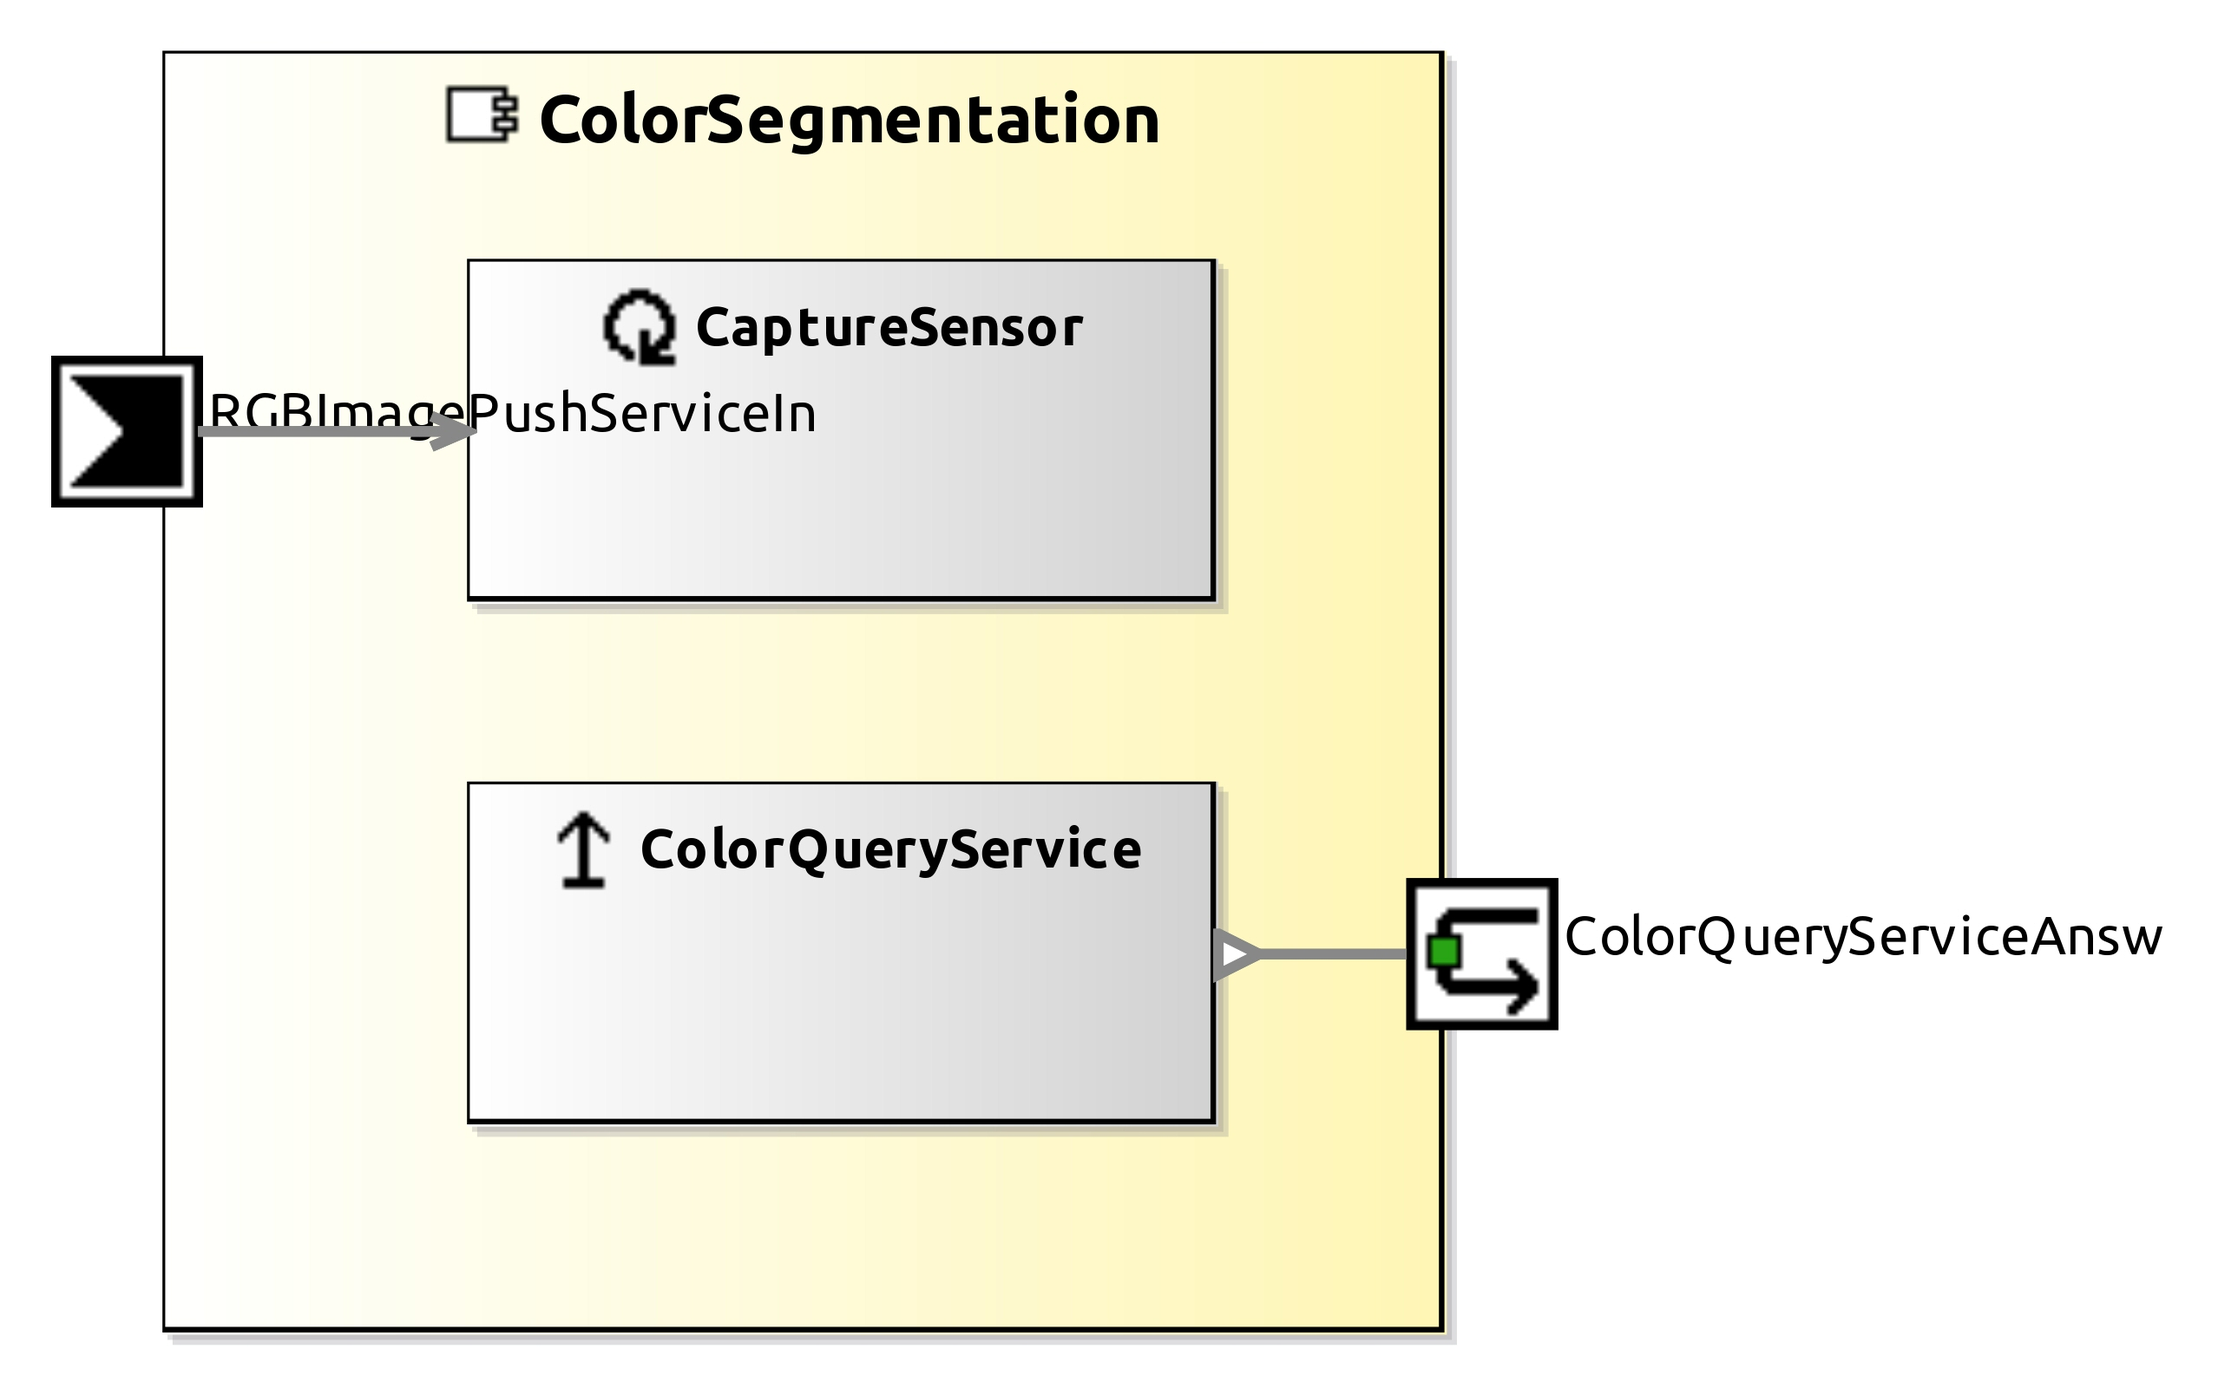
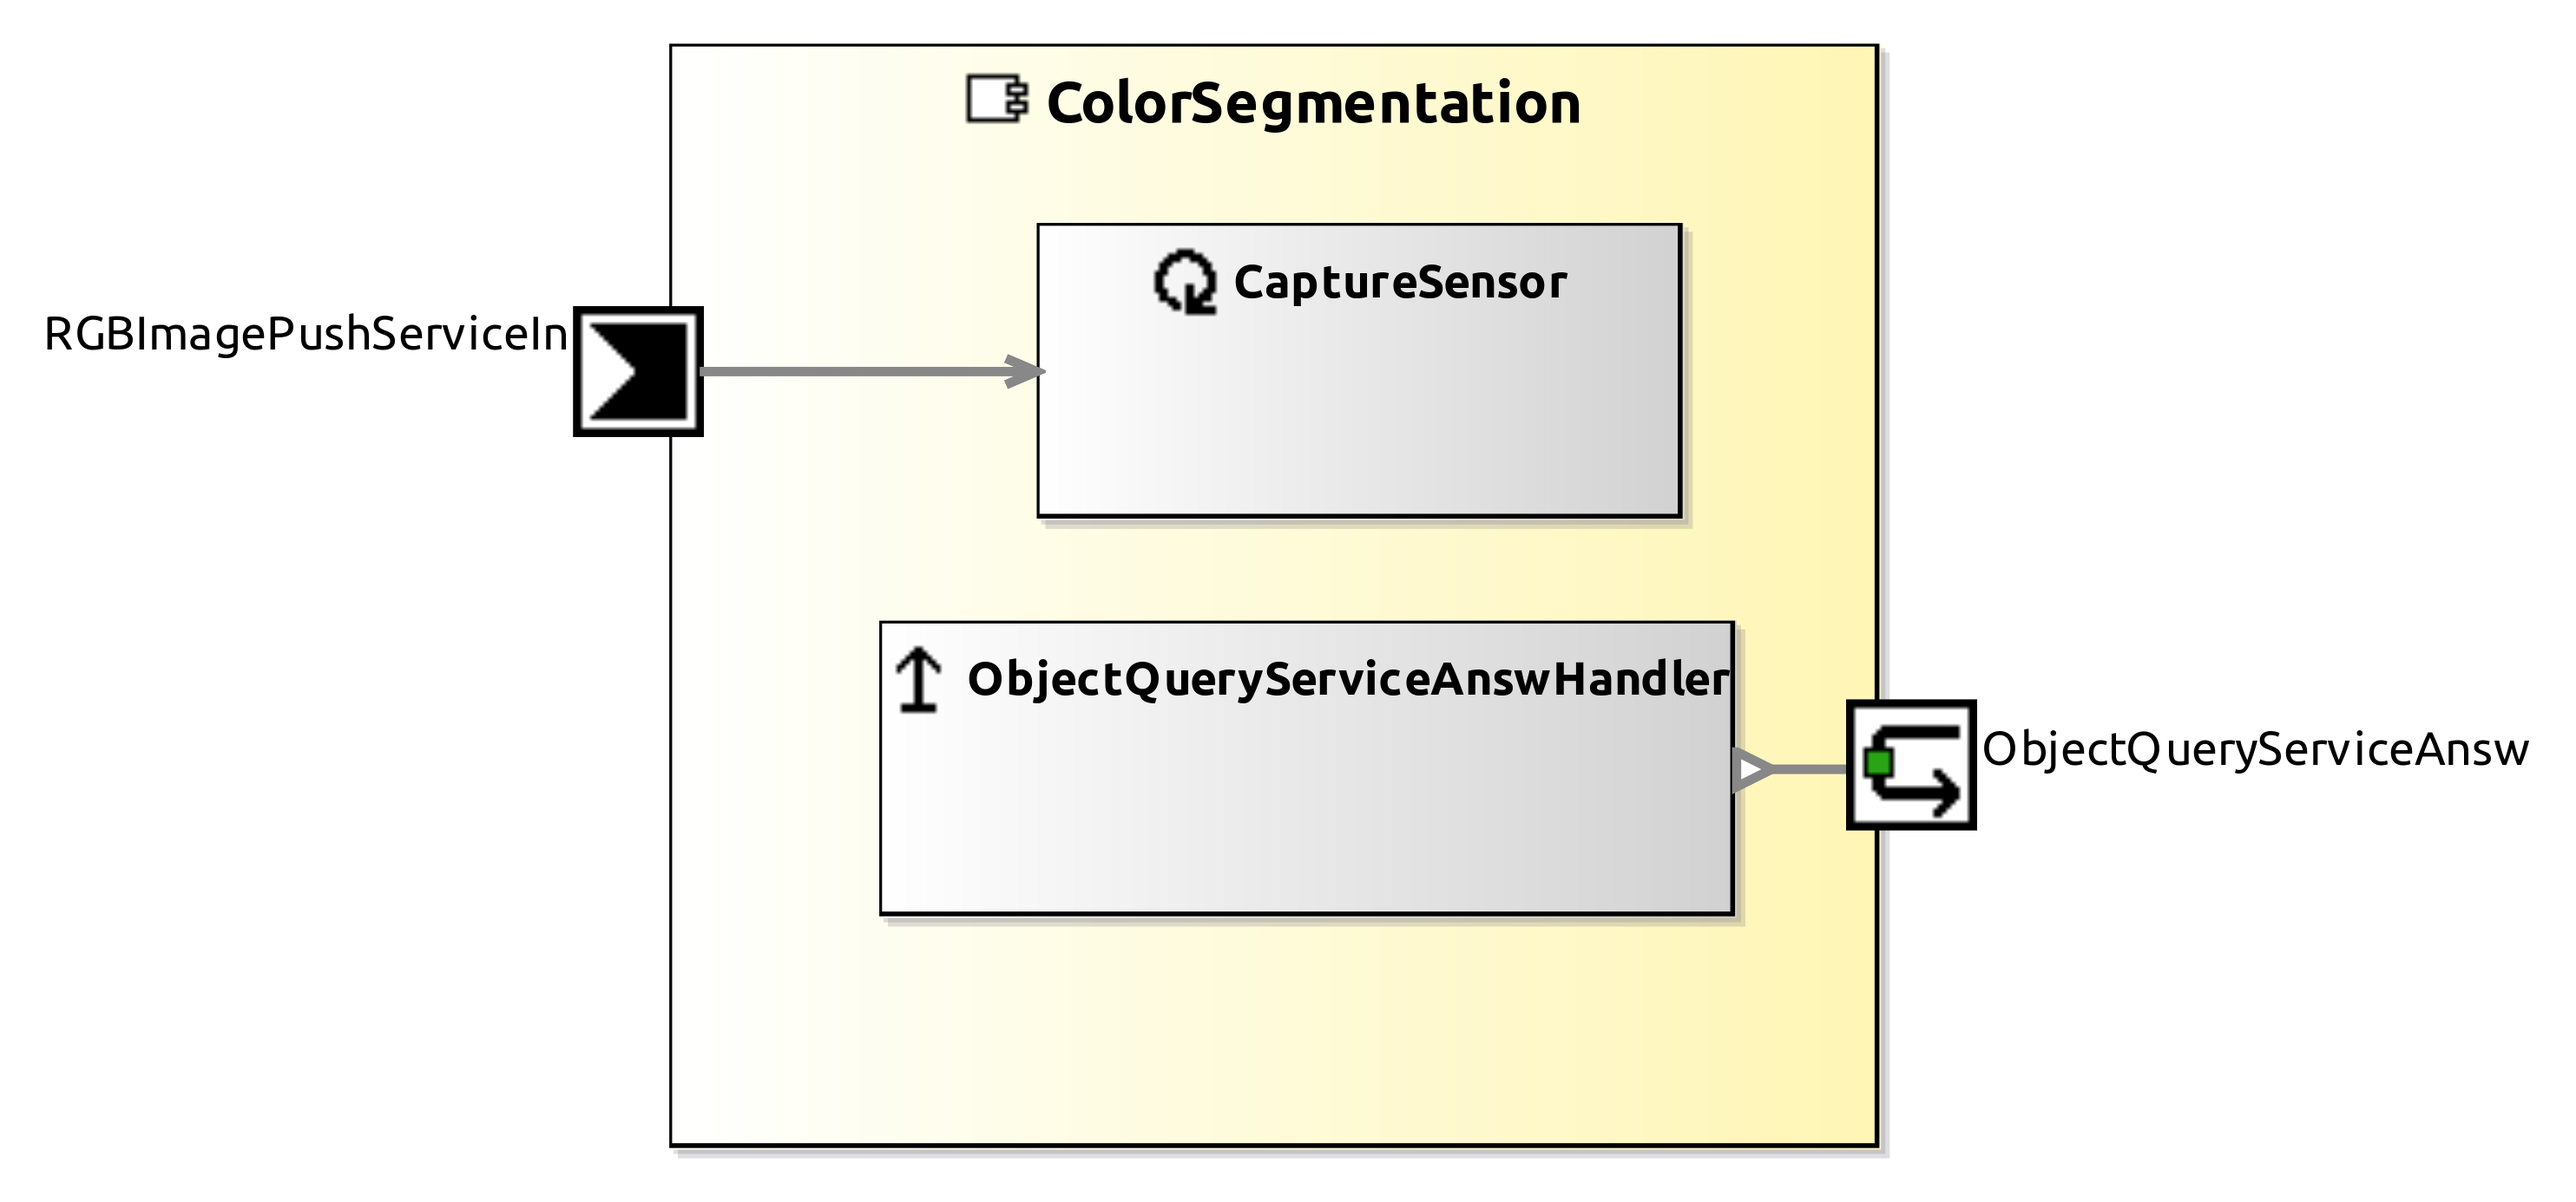
color component working with commperception

Changed region(s): [[0.0, 0.031, 0.989, 0.9618]]

diff --git a/ColorSegmentation/smartsoft/src/ObjectQueryServiceAnswHandler.cc b/ColorSegmentation/smartsoft/src/ObjectQueryServiceAnswHandler.cc
@@ -14,64 +14,33 @@
 // If you want the toolchain to re-generate this file, please 
 // delete it before running the code generator.
 //--------------------------------------------------------------------------
-#include "ColorQueryService.hh"
+#include "ObjectQueryServiceAnswHandler.hh"
 #include "ColorSegmentation.hh"
 
-ColorQueryService::ColorQueryService(Smart::IQueryServerPattern<CommObjectRecognitionObjects::CommColorDetection, CommObjectRecognitionObjects::CommPoint2d, SmartACE::QueryId>* server)
-:	ColorQueryServiceCore(server)
+ObjectQueryServiceAnswHandler::ObjectQueryServiceAnswHandler(Smart::IQueryServerPattern<CommPerception::CommInfDetection, CommPerception::CommObjectProperties, SmartACE::QueryId>* server)
+:	ObjectQueryServiceAnswHandlerCore(server)
 {
 	
 }
 
-ColorQueryService::~ColorQueryService()
+ObjectQueryServiceAnswHandler::~ObjectQueryServiceAnswHandler()
 {
 	
 }
-CommObjectRecognitionObjects::ROI ColorQueryService::fixROI(CommObjectRecognitionObjects::ROI input, int imagewidth, int imageheight )
-{//(a<b?a:b);
 
-	CommObjectRecognitionObjects::ROI roiFixed;
-	CommObjectRecognitionObjects::CommPoint2d point;
 
-	point.setX(input.getPoint().getX() < 0 ? 0:input.getPoint().getX());
-	point.setY(input.getPoint().getY() < 0 ? 0:input.getPoint().getY());
-	roiFixed.setPoint(point);
-
-	int roiWidth = input.getPoint().getX() + input.getWidth() <= imagewidth - 1? \
-			input.getWidth() : imagewidth - input.getPoint().getX() - 1;
-	int roiHeight = input.getPoint().getY() + input.getHeight() <= imageheight - 1?\
-			input.getHeight() : imageheight - input.getPoint().getY() - 1;
-	roiFixed.setWidth(roiWidth);
-	roiFixed.setHeight(roiHeight);
-
-	std::cout<< "[ColorQueryService-fixROI] image  width:"<< imagewidth <<\
-			", height:"<<imageheight<<std::endl;
-
-	std::cout<< "[ColorQueryService-fixROI] oldROI  x:"<<input.getPoint().getX()<<\
-			", y:"<<input.getPoint().getY()<<\
-			", width:"<<input.getWidth()<<\
-			", height:"<<input.getHeight()<<std::endl;
-
-	std::cout<< "[ColorQueryService-fixROI] newROI  x:"<<roiFixed.getPoint().getX()<<\
-			", y:"<<roiFixed.getPoint().getY()<<\
-			", width:"<<roiFixed.getWidth()<<\
-			", height:"<<roiFixed.getHeight()<<std::endl;
-
-	return roiFixed;
-
-}
-
-void ColorQueryService::handleQuery(const SmartACE::QueryId &id, const CommObjectRecognitionObjects::CommColorDetection& request) 
+void ObjectQueryServiceAnswHandler::handleQuery(const SmartACE::QueryId &id, const CommPerception::CommInfDetection& request) 
 {
-	CommObjectRecognitionObjects::CommPoint2d answer;
-	answer.setX(-1);
-	answer.setY(-1);
+	CommPerception::CommObjectProperties answer;
+	answer.setIs_valid(false);
+	// implement your query handling logic here and fill in the answer object
+
 
 	if(COMP->newestImageStatus == Smart::SMART_OK){
 
 		//Check color
-		CommObjectRecognitionObjects::Color color;
-		CommObjectRecognitionObjects::HSVSpace min_range = request.getColor().getMin_range(), max_range = request.getColor().getMax_range();
+		CommPerception::Color color;
+		CommPerception::HSVSpace min_range = request.getColor().getMin_range(), max_range = request.getColor().getMax_range();
 		if(min_range.getH() == 0 && min_range.getS() == 0 && min_range.getV() == 0 ){
 			if(max_range.getH() == 0 && max_range.getS() == 0 && max_range.getV() == 0 ){
 				color = COMP->getColor(request.getColor().getName());
@@ -81,7 +50,8 @@ void ColorQueryService::handleQuery(const SmartACE::QueryId &id, const CommObjec
 		else
 			color = request.getColor();
 
-		CommObjectRecognitionObjects::ROI roiFixed;
+		CommPerception::ROI roiFixed;
+		CommPerception::CommPoint2d cpoint;
 		cv::Mat image = COMP->getMat(COMP->newestImage), subImg;
 //		cv::imwrite("completeiamge.png", image);
 
@@ -109,9 +79,12 @@ void ColorQueryService::handleQuery(const SmartACE::QueryId &id, const CommObjec
 				p_object.x += roiFixed.getPoint().getX() ;
 				p_object.y += roiFixed.getPoint().getY() ;
 			}
+			answer.setIs_valid(true);
+			cpoint.setX(p_object.x);
+			cpoint.setY(p_object.y);
 
-			answer.setX(p_object.x);
-			answer.setY(p_object.y);
+			answer.setPoint2d(cpoint);
+
 		}
 		else
 			std::cout<< "[ColorQueryService] Object not detected "<<std::endl;
@@ -121,5 +94,38 @@ void ColorQueryService::handleQuery(const SmartACE::QueryId &id, const CommObjec
 
 	this->server->answer(id, answer);
 
+}
+
+CommPerception::ROI ObjectQueryServiceAnswHandler::fixROI(CommPerception::ROI input, int image_width, int image_height )
+{//(a<b?a:b);
+
+	CommPerception::ROI roi_fixed;
+	CommPerception::CommPoint2d point;
+
+	point.setX(input.getPoint().getX() < 0 ? 0:input.getPoint().getX());
+	point.setY(input.getPoint().getY() < 0 ? 0:input.getPoint().getY());
+	roi_fixed.setPoint(point);
+
+	int roi_width = input.getPoint().getX() + input.getWidth() <= image_width - 1? \
+			input.getWidth() : image_width - input.getPoint().getX() - 1;
+	int roi_height = input.getPoint().getY() + input.getHeight() <= image_height - 1?\
+			input.getHeight() : image_height - input.getPoint().getY() - 1;
+	roi_fixed.setWidth(roi_width);
+	roi_fixed.setHeight(roi_height);
+
+	std::cout<< "[ColorQueryService-fixROI] image  width:"<< image_width <<\
+			", height:"<<image_height<<std::endl;
+
+	std::cout<< "[ColorQueryService-fixROI] oldROI  x:"<<input.getPoint().getX()<<\
+			", y:"<<input.getPoint().getY()<<\
+			", width:"<<input.getWidth()<<\
+			", height:"<<input.getHeight()<<std::endl;
+
+	std::cout<< "[ColorQueryService-fixROI] newROI  x:"<<roi_fixed.getPoint().getX()<<\
+			", y:"<<roi_fixed.getPoint().getY()<<\
+			", width:"<<roi_fixed.getWidth()<<\
+			", height:"<<roi_fixed.getHeight()<<std::endl;
+
+	return roi_fixed;
 
 }

diff --git a/ColorSegmentation/smartsoft/src/ColorSegmentationCore.cc b/ColorSegmentation/smartsoft/src/ColorSegmentationCore.cc
@@ -52,26 +52,26 @@ cv::Mat ColorSegmentationCore::getMat(const DomainVision::CommVideoImage input){
 
 
 
-CommObjectRecognitionObjects::Color ColorSegmentationCore::getColor(CommObjectRecognitionObjects::Colors color_name){
+CommPerception::Color ColorSegmentationCore::getColor(CommPerception::Colors color_name){
 
-	CommObjectRecognitionObjects::Color c;
+	CommPerception::Color c;
 	c.setName(color_name);
-	CommObjectRecognitionObjects::HSVSpace min_range, max_range;
+	CommPerception::HSVSpace min_range, max_range;
 
 	switch(color_name) {
-	    case CommObjectRecognitionObjects::Colors::RED : // TODO add other (170, 120, 70) - (180, 255, 255)
+	    case CommPerception::Colors::RED : // TODO add other (170, 120, 70) - (180, 255, 255)
 	    	min_range.setH(0).setS(120).setV(70);
 	    	max_range.setH(10).setS(255).setV(255);
 	        break;
-	    case CommObjectRecognitionObjects::Colors::BLUE : //TODO
+	    case CommPerception::Colors::BLUE : //TODO
 	    	min_range.setH(0).setS(0).setV(115);
 	    	max_range.setH(0).setS(0).setV(178);
 	        break;
-	    case CommObjectRecognitionObjects::Colors::WHITE : //TODO
+	    case CommPerception::Colors::WHITE : //TODO
 	    	min_range.setH(0).setS(0).setV(115);
 	    	max_range.setH(0).setS(0).setV(178);
 	        break;
-	    case CommObjectRecognitionObjects::Colors::GRAY :
+	    case CommPerception::Colors::GRAY :
 	    	min_range.setH(0).setS(0).setV(90);
 	    	max_range.setH(180).setS(10).setV(178);
 	        break;
@@ -84,7 +84,7 @@ CommObjectRecognitionObjects::Color ColorSegmentationCore::getColor(CommObjectRe
 }
 
 
-cv::Mat ColorSegmentationCore::segmentation(cv::Mat img, CommObjectRecognitionObjects::Color color){
+cv::Mat ColorSegmentationCore::segmentation(cv::Mat img, CommPerception::Color color){
 	std::cout << "[ColorSegmentationCore] Segmentation node\n";
 
     //Converting image from BGR to HSV color space.
@@ -92,7 +92,7 @@ cv::Mat ColorSegmentationCore::segmentation(cv::Mat img, CommObjectRecognitionOb
     cv::cvtColor(img, hsv, cv::COLOR_BGR2HSV);
 
     // Creating masks to detect the upper and lower color.
-    CommObjectRecognitionObjects::HSVSpace min_range, max_range;
+    CommPerception::HSVSpace min_range, max_range;
     min_range = color.getMin_range();
     max_range = color.getMax_range();
     cv::inRange(hsv, cv::Scalar(min_range.getH(), min_range.getS(), min_range.getV()), cv::Scalar(max_range.getH(), max_range.getS(), max_range.getV()), mask1);
